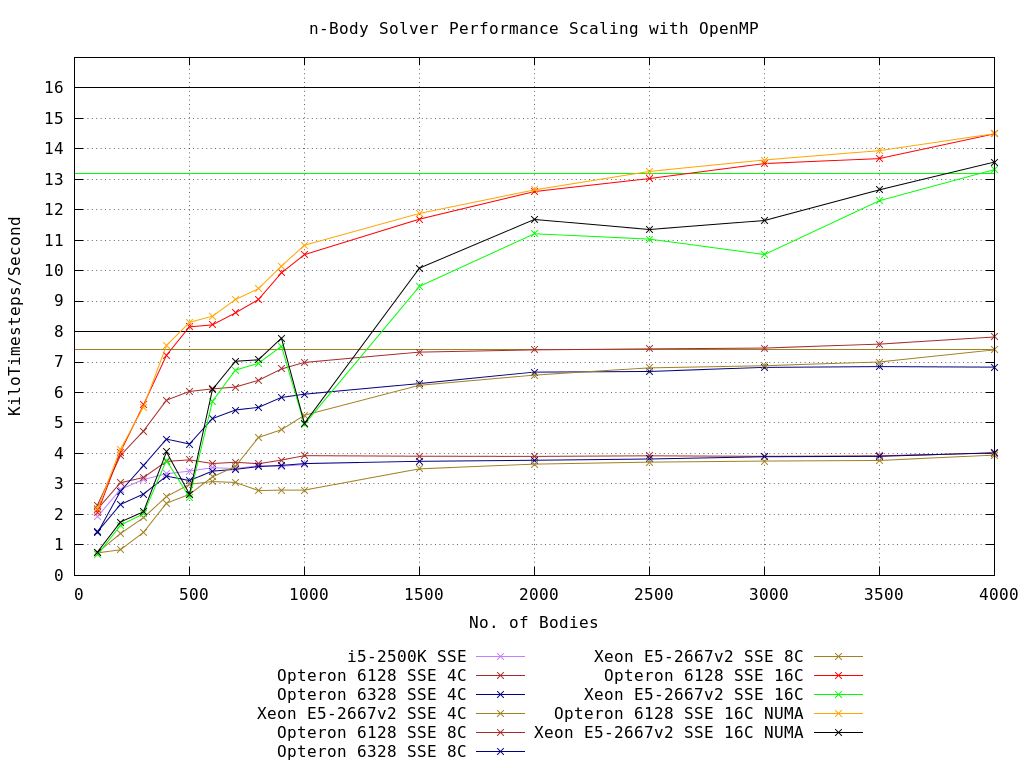
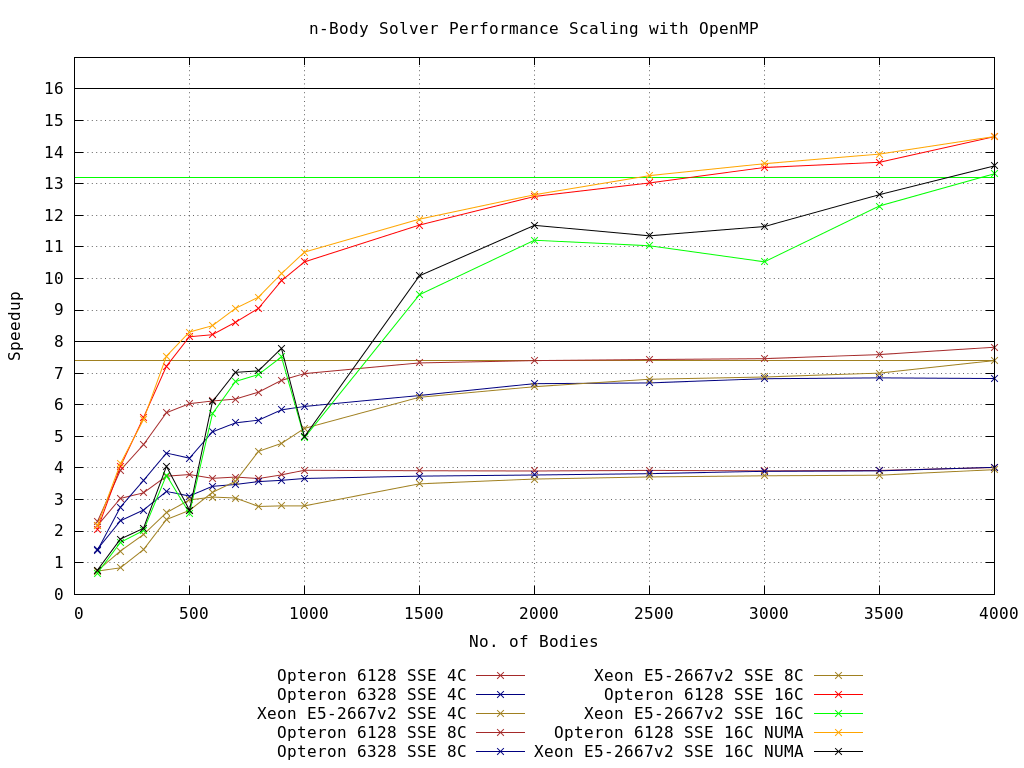
Corrected axis label

diff --git a/README.md b/README.md
@@ -25,7 +25,7 @@ The Opteron 6128 system is what we will use for MPI testing across multiple node
 ### OpenMP
 Before starting with MPI, we can check how OpenMP code scales with core-count. This gives us something to aim for when running an MPI implementation on a shared memory system. Accounting for the difference in turbo-boost clocks between a single and 4-thread load (i5-2500K) the optimal speedup is 3.82x.
 
-For best performance the OpenMP scheduling needs to be set properly. Since we are only computing the upper triangle of the force matrix, later loops are much faster since they have less work to do. For this reason, we choose `static` scheduling with a small a "chunk-size" as possible (but no smaller than 8, we don't want to induce cache misses and false sharing by making chunks smaller than one cache line).
+For best performance the OpenMP scheduling needs to be set properly. Since we are only computing the upper triangle of the force matrix, later loops are much faster since they have less work to do. For this reason, we choose `static` scheduling with as small a "chunk-size" as possible (but no smaller than 8, we don't want to induce cache misses and false sharing by making chunks smaller than one cache line).
 
 ![OpenMP Scaling](plots/img/3-scaling-sse.png)
 
